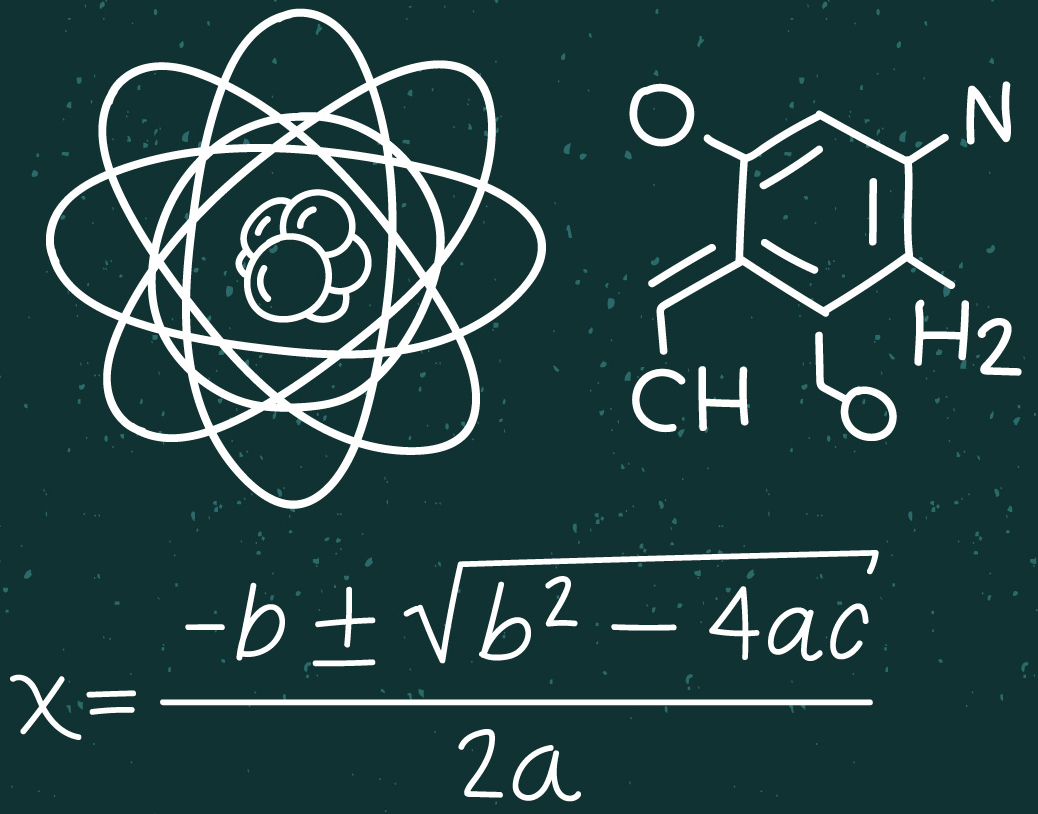
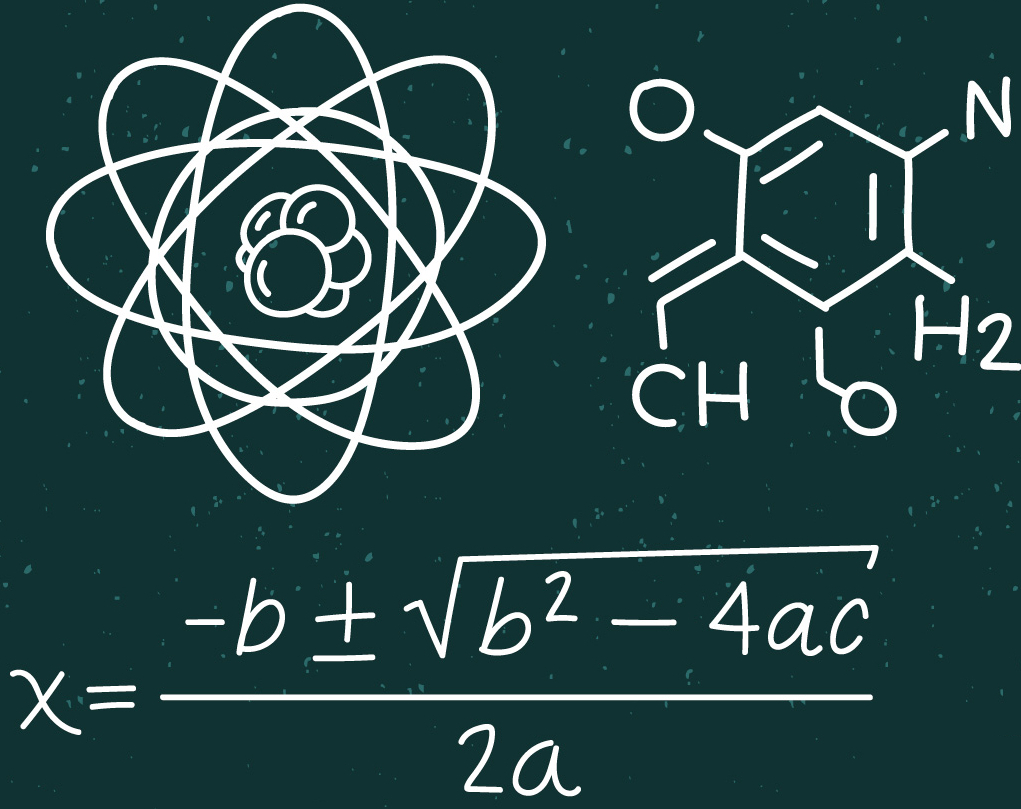
context bug

diff --git a/extension.js b/extension.js
@@ -351,7 +351,7 @@ function update_graphics_path() {
 
 // ACTIVATE FUNCTION //
 
-function activate() {
+function activate(context) {
 	console.log('The extension "prepa-workshop" is now active!');
 
 	// Create output channel for banque logs
